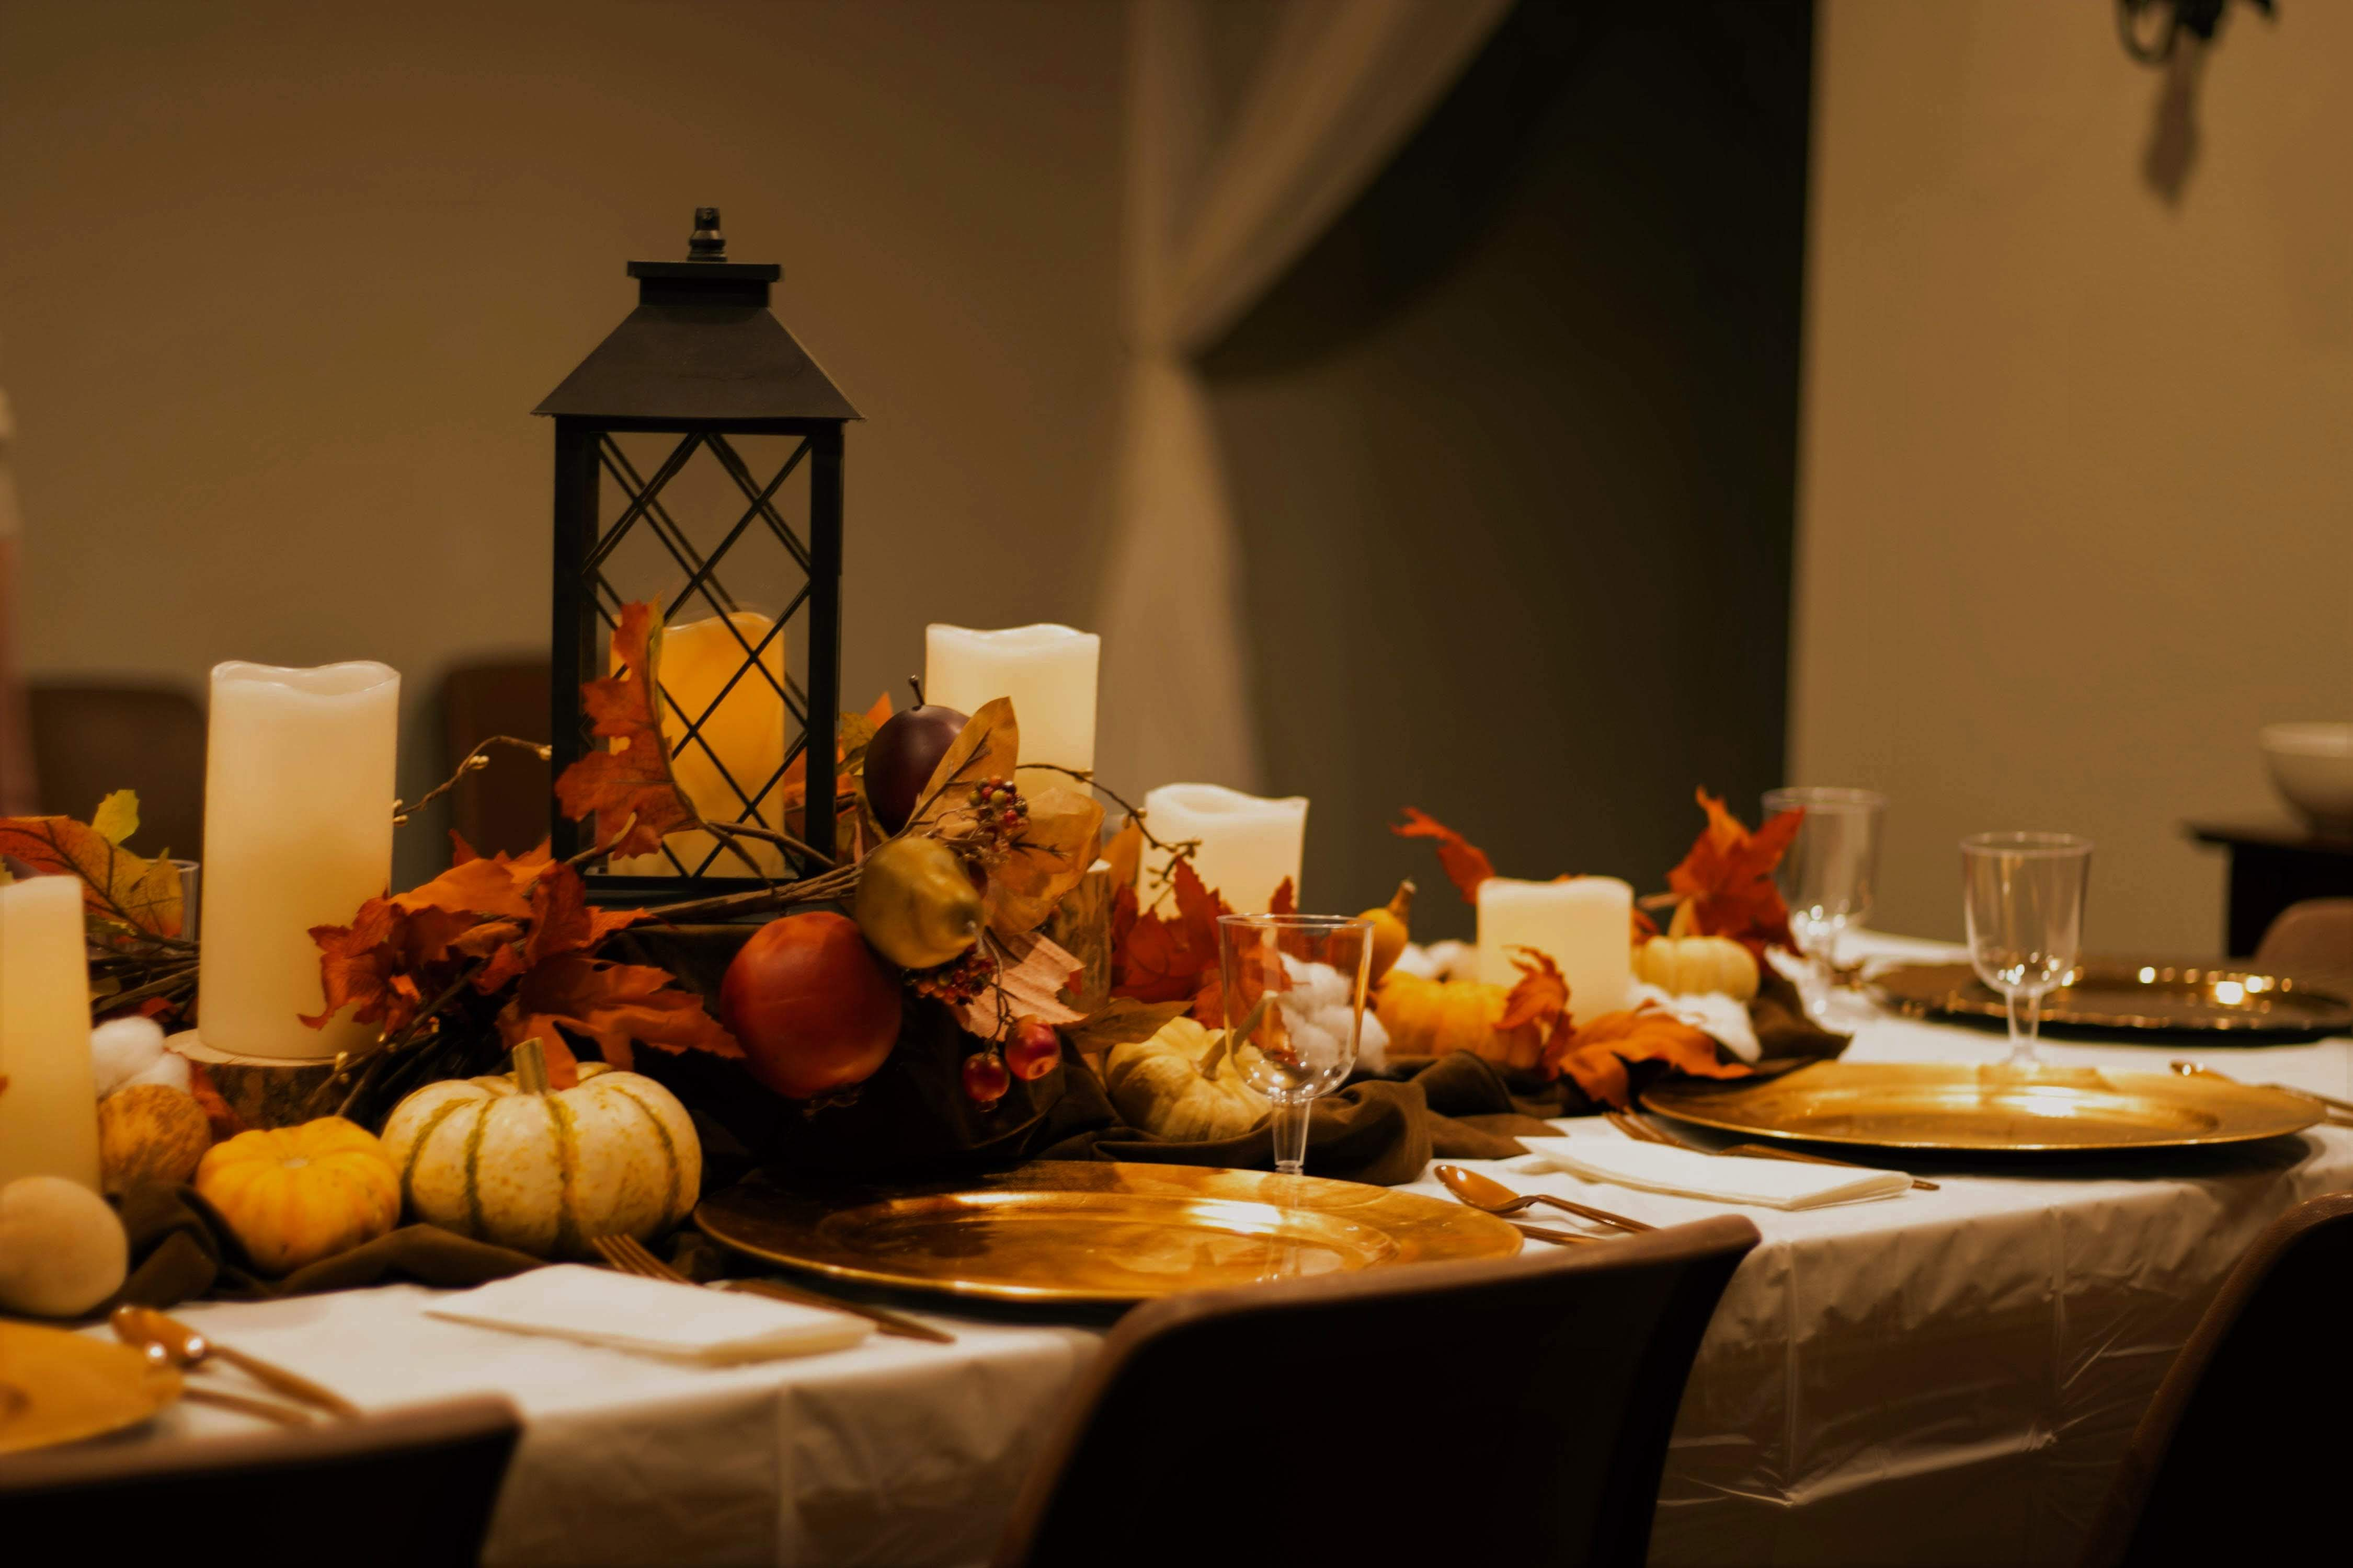
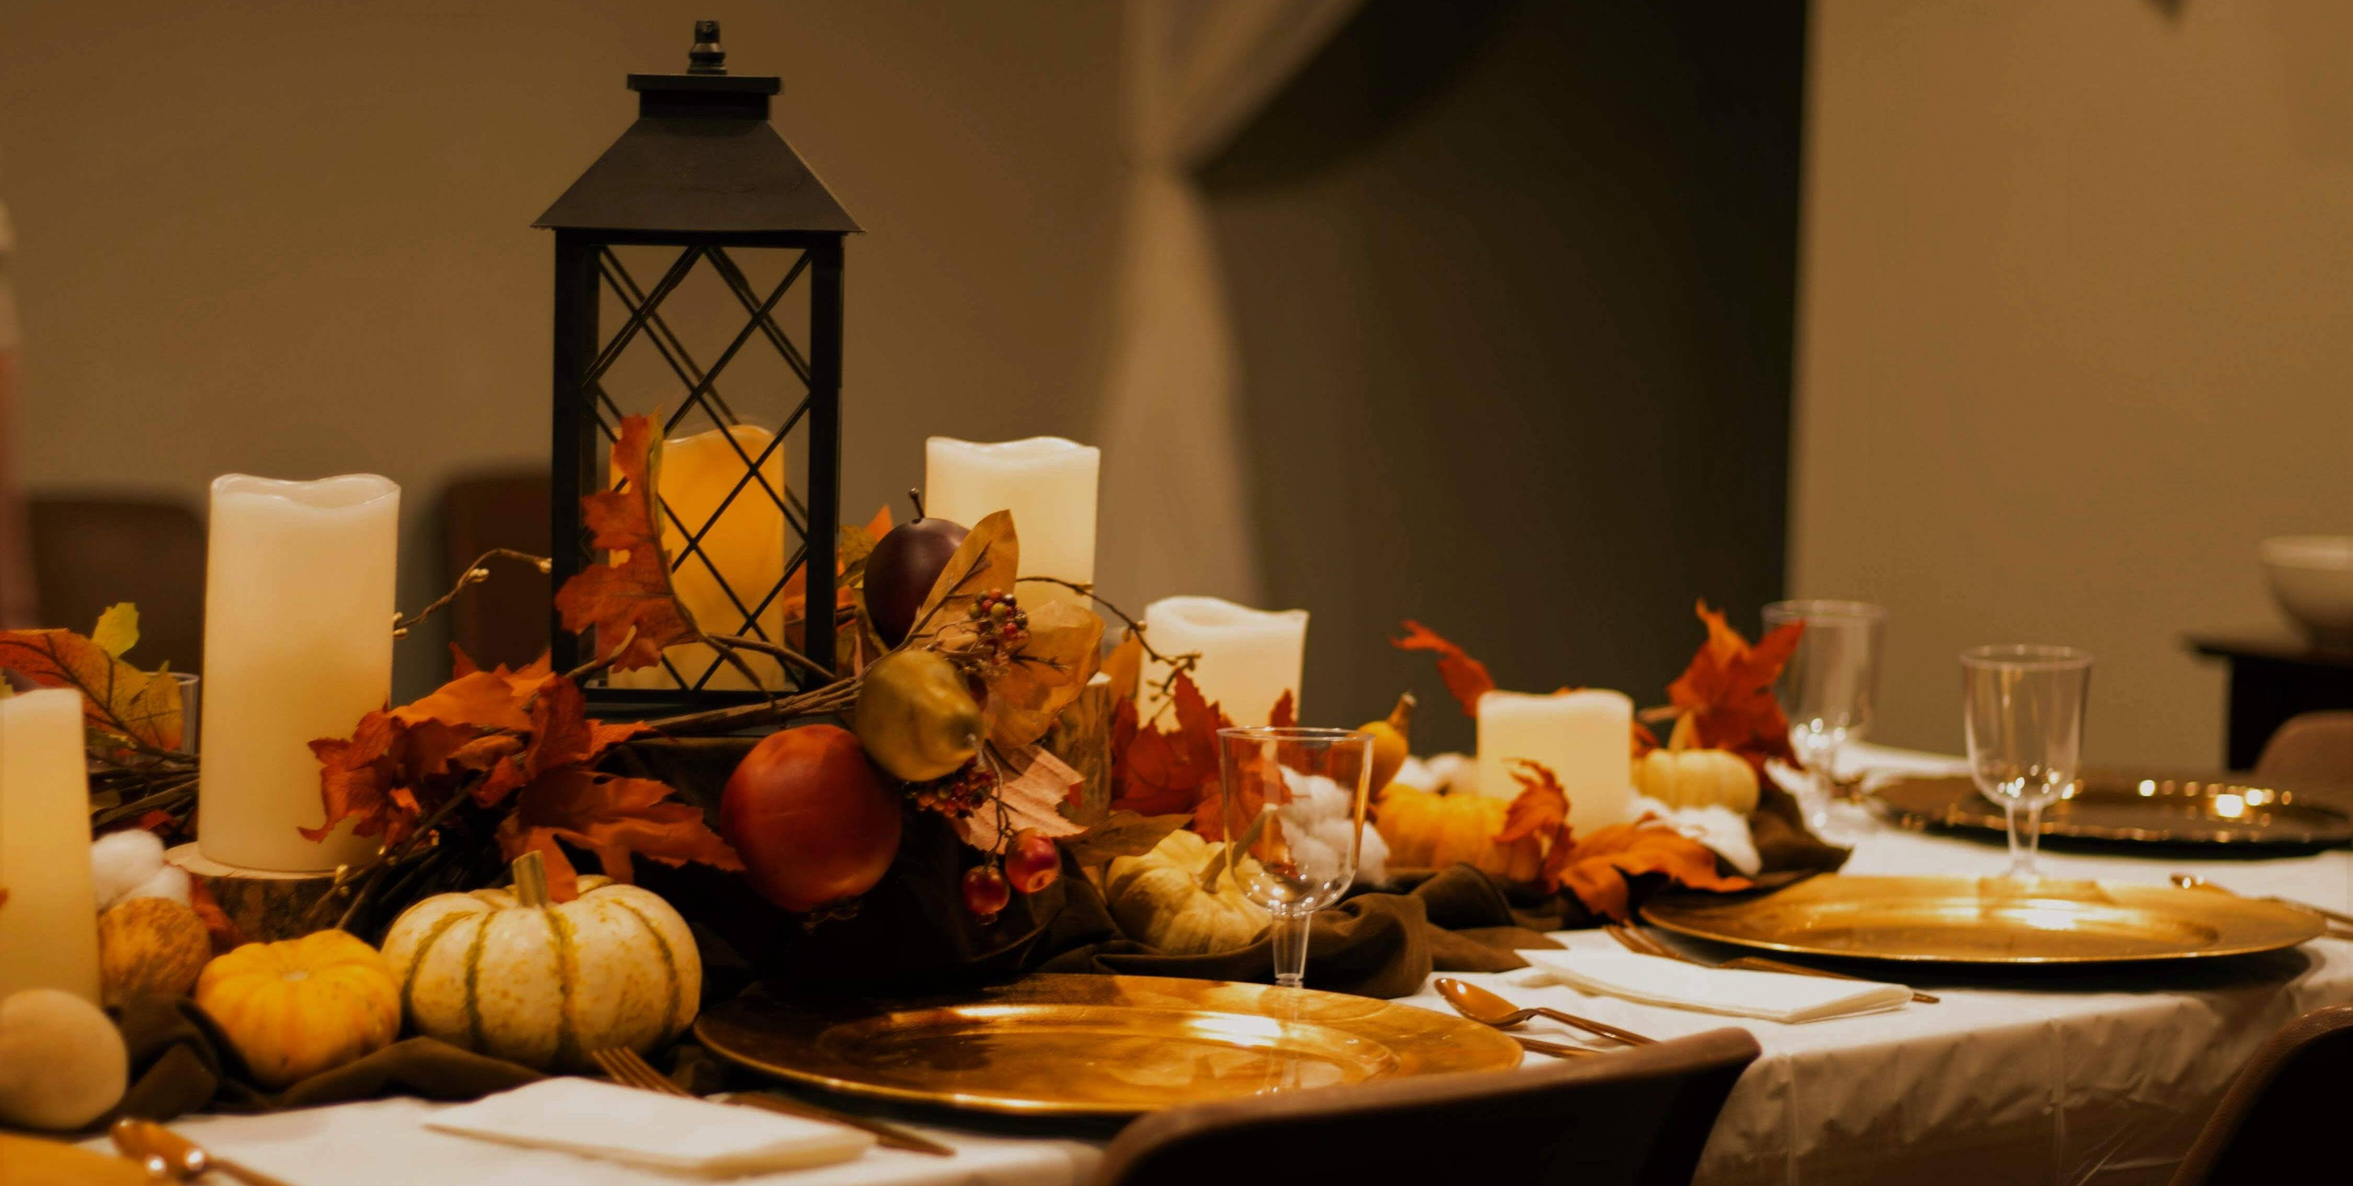
getting top part done

diff --git a/ebe/index.html b/ebe/index.html
@@ -1,150 +1,27 @@
-
 <!DOCTYPE html>
-<html lang="en-us">
-
+<html lang="en">
 <head>
-  <meta charset="utf-8" />
-  <title>Site Plan Personal</title>
-  <link type="text/css" rel="stylesheet" href="styles/site-plan_personal.css" />
+    <meta charset="UTF-8">
+    <meta http-equiv="X-UA-Compatible" content="IE=edge">
+    <meta name="viewport" content="width=device-width, initial-scale=1.0">
+    <title>First Page Of EBE</title>
+    <link rel="stylesheet" href="./styles/styles.css">
 </head>
-
 <body>
-  <header>
-    <h1>Elise Ballard Events</h1>
-    <h2>Paul Amago</h2>
-    <h2>WDD 130-[section 1]</h2>
-    <!-- In the header above, add the name of your site, your name and class number. For example if you are in section 3 you would put WDD 130-03 -->
-  </header>
-  <main>
-    <!-- ------------------------Steps 2-5------------------------------ -->
-    <hr />
-    <h2>Overview</h2>
-    <h3>Purpose</h3>
-    <p> 
-      Hello, I'm Elise Ballard. I'm a freelance event planner and artist from Arizona.
-      Creating memorable experiences and environments is something I've been passionate about since I was very young. 
-      I've studied as an artist with the goal to connect imagination to the paper, but as a planner it's my goal to connect the imagination with reality. 
-      I will be receiving my Bachelor of Art in Spring 2022.
-    </p>
-    <!-- change this -->
+    <header>
+        <div id="content">
+            <div class="header-grid">
+                <img id="top-picture"  src="./images/table1.jpg" alt="ELise Ballard Events">
+                <h1 id="brand-title">Elise Ballard Events</h1>
+            </div>
 
-    <h3>Audience</h3>
-    <p>
-      The audience would be anyone who wants to hire someone who would design and coordinate themed events.
-      Because of my niche, my audience would be people who would be particular about their event's themes.
-      For example, a Great Gatsby-themed wedding or a fairy-themed child's birthday party would fall perfectly into my area of expertise.
-      Anyone who strives to immerse their attendees in their event through their theme is the preferred audience that I'd like to collaborate with. 
+        
 
-    </p>
-    <!-- change this -->
 
-    <hr>
-    <h2>Branding</h2>
-    <h3>Website Logo</h3>
-    <!-- Replace this with some sort of logo for your site.  A logo can be as simple as the name of your site in a nice font :) -->
-    <img src="elise_logo.jpg" alt="">
-    <hr />
-    <h2>Style Guide</h2>
 
-    <!-- ------------------------Steps 6-9------------------------------ -->
 
-    <h3>Color Palette</h3>
-    <!--  The colors you choose for a website are one of the most important decisions you will make. Follow the instructions on the activity in Canvas then return and replace the color codes below with the hex color codes (the 6 digit numbers that show at the bottom of each color) for the colors you have chosen below.  You should have at least 2 colors but do not have to fill in all 4 if you do not need them.  -->
 
-    <!-- Copy and paste the URL to your finished palette below. Replace the href value that is there with yours. Make sure to paste it into both the href value and the content text of the <a> tag -->
-    <p>Palette URL:</p>
-    <a href="https://coolors.co/5b4b49-2c666e-e4dfda-d56f3e-84894a"
-      target="_blank">https://coolors.co/396e94-e7c24f-a43312-381d2a-aabd8c</a>
-
-    <table class="colors">
-      <tr>
-        <th>Primary /th>
-        <th>Secondary</th>
-        <th>Accent 1</th>
-        <th>Accent 2</th>
-      </tr>
-      <!-- Replace the numbers in the boxes below with your hex color codes. Then switch to the site-plan.css file and change your colors there as well. -->
-      <tr>
-        <td class="primary">[#E7DFE6]</td>
-        <td class="secondary">[E6C7C4]</td>
-        <td class="accent1">[#ffffff]</td>
-        <td class="accent2">[#949494]</td>
-      </tr>
-    </table>
-
-    <!-- ------------------------Steps 10-12------------------------------ -->
-
-    <h3>Typography</h3>
-    <!-- Choose a font for your paragraphs (body copy) and headlines. What font(s) have you chosen? Think also about which of your colors above you might use for background and font colors. -->
-
-    <h4>
-      Heading Font: [Nuosu SIL]
-      <!-- change this -->
-    </h4>
-    <h4>
-      Paragraph Font: [Charis SIL]
-      <!-- change this -->
-    </h4>
-    <h3>Normal paragraph example</h3>
-    <p>
-      Elise Ballard Events is here to assist in making your events be the
-      most immersive experience that you can have. This is in hopes of making
-      impactful memories that can be cherished for the rest of your. I plan for events
-      like, but are not limited to, wedding, birthday parties, themed parties etc. 
-    </p>
-    <h3>Colored paragraph example</h3>
-    Elise Ballard Events is here to assist in making your events be the
-    most immersive experience that you can have. This is in hopes of making
-    impactful memories that can be cherished for the rest of your. I plan for events
-    like, but are not limited to, wedding, birthday parties, themed parties etc.
-    <p class="colored">
-      
-    </p>
-
-    <!-- ------------------------Step 13------------------------------ -->
-
-    <h3>Navigation</h3>
-    <!-- Think about how you want your navigation bar to look. In the site-plan.css file change the colors to your colors to get the look you desire. -->
-    <nav>
-      <a href="#">Home</a>
-      <a href="#">Portfollio</a>
-      <a href="#">Set An Appointment</a>
-    </nav>
-    <hr />
-    <h2>Site Map</h2>
-    <div class="sitemap">
-      <div class="sm-home">Home</div>
-      <div class="sm-page2">
-        [Portfolio]
-        <!-- this page will have a name later -->
-      </div>
-      <div class="sm-page3">Contact Us</div>
-
-      <div class="top">&nbsp;</div>
-      <div class="left">&nbsp;</div>
-      <div class="right">&nbsp;</div>
-    </div>
-    <hr />
-    <h2>Wireframes</h2>
-    <!-- Create an additional wireframe for your site. List it here below the Home page wireframe. -->
-
-    <h3>Home</h3>
-
-    <img src="./images/ebe_wiretap1.png" alt="home page wireframe" />
-
-    <h3>[Portfolio]</h3>
-    <img src="./images/ebe_wiretap2.png" alt="home page wireframe" />
-    <h1> Portfolio Photos</h1>
-    <img class="content" src="images/candle.jpg" alt="candle content">
-    <img class="content" src="images/table1.jpg" alt="table 1 content">
-    <img class="content" src="images/table2.jpg" alt="table 2 content">
-
-    <h3>[Contact]</h3>
-    <img src="./images/ebe_wiretap3.png" alt="home page wireframe" />
-
-    <!-- <img src="#" alt="page 2 wireframe"> -->
-  </main>
-  
+    </header>
+    
 </body>
-
 </html>

diff --git a/ebe/ebe-site-plan.html b/ebe/ebe-site-plan.html
@@ -1,0 +1,150 @@
+
+<!DOCTYPE html>
+<html lang="en-us">
+
+<head>
+  <meta charset="utf-8" />
+  <title>Site Plan Personal</title>
+  <link type="text/css" rel="stylesheet" href="styles/site-plan_personal.css" />
+</head>
+
+<body>
+  <header>
+    <h1>Elise Ballard Events</h1>
+    <h2>Paul Amago</h2>
+    <h2>WDD 130-[section 1]</h2>
+    <!-- In the header above, add the name of your site, your name and class number. For example if you are in section 3 you would put WDD 130-03 -->
+  </header>
+  <main>
+    <!-- ------------------------Steps 2-5------------------------------ -->
+    <hr />
+    <h2>Overview</h2>
+    <h3>Purpose</h3>
+    <p> 
+      Hello, I'm Elise Ballard. I'm a freelance event planner and artist from Arizona.
+      Creating memorable experiences and environments is something I've been passionate about since I was very young. 
+      I've studied as an artist with the goal to connect imagination to the paper, but as a planner it's my goal to connect the imagination with reality. 
+      I will be receiving my Bachelor of Art in Spring 2022.
+    </p>
+    <!-- change this -->
+
+    <h3>Audience</h3>
+    <p>
+      The audience would be anyone who wants to hire someone who would design and coordinate themed events.
+      Because of my niche, my audience would be people who would be particular about their event's themes.
+      For example, a Great Gatsby-themed wedding or a fairy-themed child's birthday party would fall perfectly into my area of expertise.
+      Anyone who strives to immerse their attendees in their event through their theme is the preferred audience that I'd like to collaborate with. 
+
+    </p>
+    <!-- change this -->
+
+    <hr>
+    <h2>Branding</h2>
+    <h3>Website Logo</h3>
+    <!-- Replace this with some sort of logo for your site.  A logo can be as simple as the name of your site in a nice font :) -->
+    <img src="elise_logo.jpg" alt="">
+    <hr />
+    <h2>Style Guide</h2>
+
+    <!-- ------------------------Steps 6-9------------------------------ -->
+
+    <h3>Color Palette</h3>
+    <!--  The colors you choose for a website are one of the most important decisions you will make. Follow the instructions on the activity in Canvas then return and replace the color codes below with the hex color codes (the 6 digit numbers that show at the bottom of each color) for the colors you have chosen below.  You should have at least 2 colors but do not have to fill in all 4 if you do not need them.  -->
+
+    <!-- Copy and paste the URL to your finished palette below. Replace the href value that is there with yours. Make sure to paste it into both the href value and the content text of the <a> tag -->
+    <p>Palette URL:</p>
+    <a href="https://coolors.co/5b4b49-2c666e-e4dfda-d56f3e-84894a"
+      target="_blank">https://coolors.co/396e94-e7c24f-a43312-381d2a-aabd8c</a>
+
+    <table class="colors">
+      <tr>
+        <th>Primary /th>
+        <th>Secondary</th>
+        <th>Accent 1</th>
+        <th>Accent 2</th>
+      </tr>
+      <!-- Replace the numbers in the boxes below with your hex color codes. Then switch to the site-plan.css file and change your colors there as well. -->
+      <tr>
+        <td class="primary">[#E7DFE6]</td>
+        <td class="secondary">[E6C7C4]</td>
+        <td class="accent1">[#ffffff]</td>
+        <td class="accent2">[#949494]</td>
+      </tr>
+    </table>
+
+    <!-- ------------------------Steps 10-12------------------------------ -->
+
+    <h3>Typography</h3>
+    <!-- Choose a font for your paragraphs (body copy) and headlines. What font(s) have you chosen? Think also about which of your colors above you might use for background and font colors. -->
+
+    <h4>
+      Heading Font: [Nuosu SIL]
+      <!-- change this -->
+    </h4>
+    <h4>
+      Paragraph Font: [Charis SIL]
+      <!-- change this -->
+    </h4>
+    <h3>Normal paragraph example</h3>
+    <p>
+      Elise Ballard Events is here to assist in making your events be the
+      most immersive experience that you can have. This is in hopes of making
+      impactful memories that can be cherished for the rest of your. I plan for events
+      like, but are not limited to, wedding, birthday parties, themed parties etc. 
+    </p>
+    <h3>Colored paragraph example</h3>
+    Elise Ballard Events is here to assist in making your events be the
+    most immersive experience that you can have. This is in hopes of making
+    impactful memories that can be cherished for the rest of your. I plan for events
+    like, but are not limited to, wedding, birthday parties, themed parties etc.
+    <p class="colored">
+      
+    </p>
+
+    <!-- ------------------------Step 13------------------------------ -->
+
+    <h3>Navigation</h3>
+    <!-- Think about how you want your navigation bar to look. In the site-plan.css file change the colors to your colors to get the look you desire. -->
+    <nav>
+      <a href="#">Home</a>
+      <a href="#">Portfollio</a>
+      <a href="#">Set An Appointment</a>
+    </nav>
+    <hr />
+    <h2>Site Map</h2>
+    <div class="sitemap">
+      <div class="sm-home">Home</div>
+      <div class="sm-page2">
+        [Portfolio]
+        <!-- this page will have a name later -->
+      </div>
+      <div class="sm-page3">Contact Us</div>
+
+      <div class="top">&nbsp;</div>
+      <div class="left">&nbsp;</div>
+      <div class="right">&nbsp;</div>
+    </div>
+    <hr />
+    <h2>Wireframes</h2>
+    <!-- Create an additional wireframe for your site. List it here below the Home page wireframe. -->
+
+    <h3>Home</h3>
+
+    <img src="./images/ebe_wiretap1.png" alt="home page wireframe" />
+
+    <h3>[Portfolio]</h3>
+    <img src="./images/ebe_wiretap2.png" alt="home page wireframe" />
+    <h1> Portfolio Photos</h1>
+    <img class="content" src="images/candle.jpg" alt="candle content">
+    <img class="content" src="images/table1.jpg" alt="table 1 content">
+    <img class="content" src="images/table2.jpg" alt="table 2 content">
+
+    <h3>[Contact]</h3>
+    <img src="./images/ebe_wiretap3.png" alt="home page wireframe" />
+
+    <!-- <img src="#" alt="page 2 wireframe"> -->
+  </main>
+  
+</body>
+
+</html>

diff --git a/ebe/styles/styles.css b/ebe/styles/styles.css
@@ -1,0 +1,42 @@
+@import url('https://fonts.googleapis.com/css2?family=Charis+SIL&family=Nanum+Gothic&family=Nuosu+SIL&display=swap');
+
+
+
+body{
+    background-color: #E1A18E;
+}
+
+/* content div */
+
+#content{
+    max-width: 1600px;
+    margin: 0 auto;
+    width: 1300px;
+}
+
+/*header with grid */
+
+.header-grid{
+    display: grid;
+    grid-template-columns: repeat(4, 1fr);
+}
+
+#top-picture{
+    height: 480px;
+    width: 1270px;
+    grid-column: 1/2;
+    grid-row: 1/2;
+}
+
+#brand-title{
+    color: #C4AC62;
+    font-family: Nuosu SIL, Helvetica, sans-serif;
+    font-size: 100px;
+    text-align: center;
+    grid-column: 1/2;
+    grid-row: 1/2;
+    margin-top: 150px;
+    z-index: 1;
+    
+}
+
